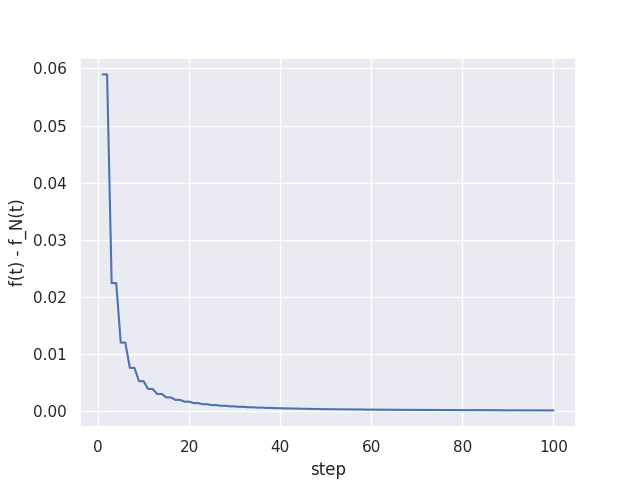
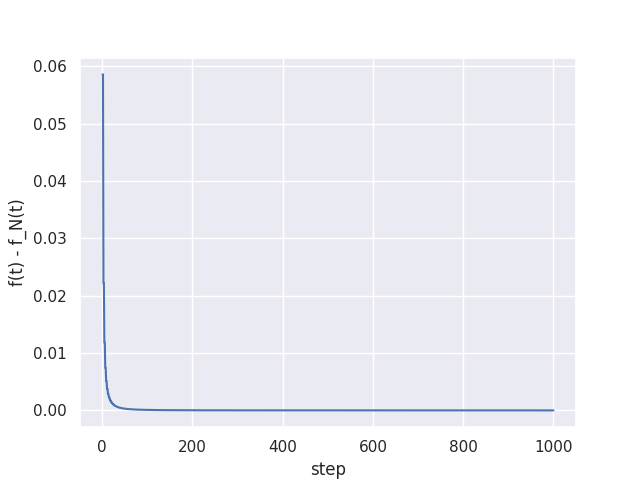
add : case2を追加

diff --git a/fourier.py b/fourier.py
@@ -5,24 +5,37 @@ import seaborn as sns
 
 def coef(k, case=1):
     sign = (-1) ** k
-    pik = np.pi * k
-    return 2 / pik / pik * (sign - 1)
+
+    if case == 1:
+        pik = np.pi * k
+        return 2 / pik / pik * (sign - 1)
+    else:
+        return 1 / k / 1.0j / np.pi * (1 - sign)
 
 
 def answer(x, case=1):
     res = []
-    for item in x:
-        if item <= np.pi:
-            value = -1 + 2 * item / np.pi
-        else:
-            value = 3 - 2 * item / np.pi
-        res.append(value)
-    return res
+    if case == 1:
+        for item in x:
+            if item <= np.pi:
+                value = -1 + 2 * item / np.pi
+            else:
+                value = 3 - 2 * item / np.pi
+            res.append(value)
+        return res
+    else:
+        for item in x:
+            if item <= np.pi:
+                value = 1
+            else:
+                value = -1
+            res.append(value)
+        return res
 
 
 def plot_fourier(case=1, kmax=100):
     sns.set_theme()
-    n = 360
+    n = 10000
     theta = np.linspace(0, 2 * np.pi, n + 1)
     # 0 から 2*π まで (n+1)点のデータ(n分割)の配列を作る
     z = np.zeros_like(theta)
@@ -30,8 +43,8 @@ def plot_fourier(case=1, kmax=100):
     error_ls = []
     step_ls = []
     for k in range(1, kmax + 1):
-        z = z + np.real(coef(k) * np.exp(1.0j * k * theta))  # 波数1と2の重ね合わせ
-        z = z + np.real(coef(-k) * np.exp(1.0j * -k * theta))  # 波数1と2の重ね合わせ
+        z = z + np.real(coef(k, case) * np.exp(1.0j * k * theta))  # 波数1と2の重ね合わせ
+        z = z + np.real(coef(-k, case) * np.exp(1.0j * -k * theta))  # 波数1と2の重ね合わせ
         error_ls.append(np.mean(np.fabs(ans - z)))
         step_ls.append(k)
 
@@ -54,4 +67,5 @@ def plot_fourier(case=1, kmax=100):
 
 
 if __name__ == "__main__":
-    plot_fourier(case=1)
+    plot_fourier(case=1, kmax=1000)
+    plot_fourier(case=2, kmax=1000)
